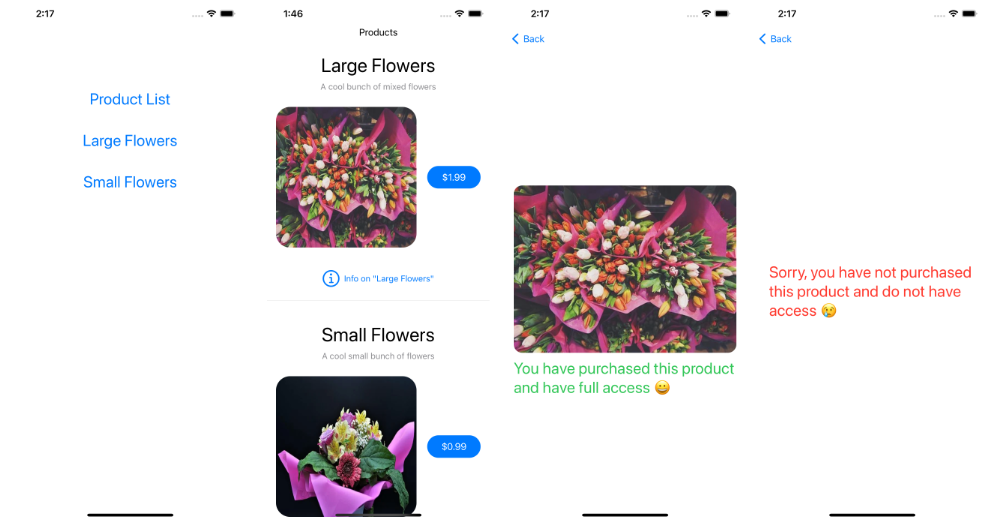
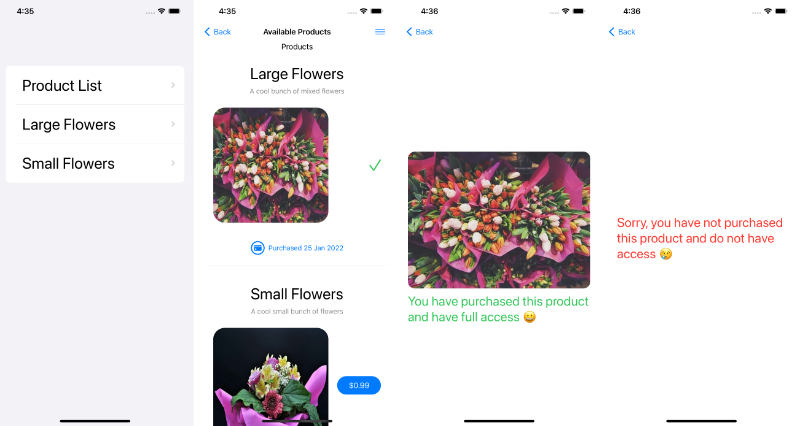
Updates to macOS frame size

diff --git a/Shared/ProductInfo.swift b/Shared/ProductInfo.swift
@@ -11,12 +11,19 @@ import StoreKit
 
 struct ProductInfo: View {
     @EnvironmentObject var storeHelper: StoreHelper
-    @Binding var productInfoProductId: ProductId
     @State private var product: Product?
+    @Binding var productInfoProductId: ProductId
+    @Binding var showProductInfoSheet: Bool
     
     var body: some View {
         VStack {
-            HStack { Spacer() }
+            HStack {
+                Spacer()
+                Image(systemName: "xmark.circle")
+                    .foregroundColor(.secondary)
+                    .padding(EdgeInsets(top: 10, leading: 10, bottom: 0, trailing: 10))
+            }
+            .onTapGesture { withAnimation { showProductInfoSheet = false }}
             ScrollView {
                 VStack {
                     if let p = product {

diff --git a/Shared/StoreHelperDemoApp.swift b/Shared/StoreHelperDemoApp.swift
@@ -12,17 +12,12 @@ import StoreHelper
 struct StoreHelperDemoApp: App {
     @StateObject var storeHelper = StoreHelper()
     
-    #if os(macOS)
-    let minScreenSize = CGSize(width: 600, height: 600)
-    let defaultScreenSize = CGSize(width: 700, height: 700)
-    #endif
-    
     var body: some Scene {
         WindowGroup {
             MainView().environmentObject(storeHelper)
                 #if os(macOS)
-                .frame(minWidth: minScreenSize.width, idealWidth: defaultScreenSize.width, minHeight: minScreenSize.height, idealHeight: defaultScreenSize.height)
-                .font(.title2)  // Default font
+                .frame(minWidth: 700, idealWidth: 700, minHeight: 700, idealHeight: 700)
+                .font(.title2)
                 #endif
         }
     }

diff --git a/Shared/ContentView.swift b/Shared/ContentView.swift
@@ -21,13 +21,12 @@ struct ContentView: View {
             .sheet(isPresented: $showProductInfoSheet) {
                 VStack {
                     // Pull in text and images that explain the particular product identified by `productId`
-                    ProductInfo(productInfoProductId: $productId)
+                    ProductInfo(productInfoProductId: $productId, showProductInfoSheet: $showProductInfoSheet)
                 }
                 #if os(macOS)
-                .frame(minWidth: 700, idealWidth: 700, maxWidth: 700, minHeight: 700, idealHeight: 800, maxHeight: 900)
+                .frame(minWidth: 500, idealWidth: 500, maxWidth: 500, minHeight: 500, idealHeight: 500, maxHeight: 500)
                 #endif
             }
         }
     }
 }
-

diff --git a/README.md b/README.md
@@ -7,10 +7,13 @@ Implementing and testing in-App purchases with `StoreKit2` and `StoreHelper` in 
 # Description
 ![](./readme-assets/StoreHelperDemo0c.png)
 
+- See [StoreHelper](https://github.com/russell-archer/StoreHelper) for an overview of the `StoreHelper` package
+- See [StoreHelper Guide](https://github.com/russell-archer/StoreHelper/blob/main/Documentation/guide.md) for in-depth discussion and tutorial on using `StoreHelper`, `StoreKit2` with **Xcode 13**, **iOS 15** and **macOS 12**
+
 This document describes how to create an example app that demonstrates how to support in-app purchases with **SwiftUI**, `StoreHelper`, `StoreKit2`, **Xcode 13**, **iOS 15** and **macOS 12**.
 
-- ### See [StoreHelper](https://github.com/russell-archer/StoreHelper) for full details of the `StoreHelper` package
-- ### See [In-App Purchases with Xcode 12 and iOS 14](https://github.com/russell-archer/IAPDemo) for details of working with StoreKit1 in **iOS 14**
+- See [StoreHelper](https://github.com/russell-archer/StoreHelper) for full details of the `StoreHelper` package
+- See [In-App Purchases with Xcode 12 and iOS 14](https://github.com/russell-archer/IAPDemo) for details of working with StoreKit1 in **iOS 14**
 
 ---
 
@@ -72,17 +75,12 @@ import StoreHelper
 struct StoreHelperDemoApp: App {
     @StateObject var storeHelper = StoreHelper()
     
-    #if os(macOS)
-    let minScreenSize = CGSize(width: 600, height: 600)
-    let defaultScreenSize = CGSize(width: 700, height: 700)
-    #endif
-    
     var body: some Scene {
         WindowGroup {
             MainView().environmentObject(storeHelper)
                 #if os(macOS)
-                .frame(minWidth: minScreenSize.width, idealWidth: defaultScreenSize.width, minHeight: minScreenSize.height, idealHeight: defaultScreenSize.height)
-                .font(.title2)  // Default font
+                .frame(minWidth: 700, idealWidth: 700, minHeight: 700, idealHeight: 700)
+                .font(.title2)
                 #endif
         }
     }
@@ -103,15 +101,16 @@ struct MainView: View {
     
     var body: some View {
         NavigationView {
-            VStack {
-                NavigationLink(destination: ContentView()) { Text("Product List").font(.title) }.padding()
-                NavigationLink(destination: ProductView(productId: largeFlowersId)) { Text("Large Flowers").font(.title) }.padding()
-                NavigationLink(destination: ProductView(productId: smallFlowersId)) { Text("Small Flowers").font(.title) }.padding()
-                Spacer()
+            List {
+                NavigationLink(destination: ContentView()) { Text("Product List").font(.largeTitle).padding()}
+                NavigationLink(destination: ProductView(productId: largeFlowersId)) { Text("Large Flowers").font(.largeTitle).padding()}
+                NavigationLink(destination: ProductView(productId: smallFlowersId)) { Text("Small Flowers").font(.largeTitle).padding()}
             }
         }
+        #if os(iOS)
         .navigationViewStyle(.stack)
         .navigationBarTitle(Text("StoreHelperDemo"), displayMode: .large)
+        #endif
     }
 }
 ```
@@ -174,10 +173,10 @@ struct ContentView: View {
             .sheet(isPresented: $showProductInfoSheet) {
                 VStack {
                     // Pull in text and images that explain the particular product identified by `productId`
-                    ProductInfo(productInfoProductId: $productId)
+                    ProductInfo(productInfoProductId: $productId, showProductInfoSheet: $showProductInfoSheet)
                 }
                 #if os(macOS)
-                .frame(minWidth: 700, idealWidth: 700, maxWidth: 700, minHeight: 700, idealHeight: 800, maxHeight: 900)
+                .frame(minWidth: 500, idealWidth: 500, maxWidth: 500, minHeight: 500, idealHeight: 500, maxHeight: 500)
                 #endif
             }
         }
@@ -199,12 +198,19 @@ import StoreKit
 
 struct ProductInfo: View {
     @EnvironmentObject var storeHelper: StoreHelper
-    @Binding var productInfoProductId: ProductId
     @State private var product: Product?
+    @Binding var productInfoProductId: ProductId
+    @Binding var showProductInfoSheet: Bool
     
     var body: some View {
         VStack {
-            HStack { Spacer() }
+            HStack {
+                Spacer()
+                Image(systemName: "xmark.circle")
+                    .foregroundColor(.secondary)
+                    .padding(EdgeInsets(top: 10, leading: 10, bottom: 0, trailing: 10))
+            }
+            .onTapGesture { withAnimation { showProductInfoSheet = false }}
             ScrollView {
                 VStack {
                     if let p = product {
@@ -276,6 +282,12 @@ struct ProductInfoDefault: View {
     - Try selecting "Large Flowers" from the main view. If you've purchased it you should see that you have access, otherwise you'll see a "no access" error 
 
 ![](./readme-assets/StoreHelperDemo108.png)
+
+- Now select the **macOS target** and run it on your Mac:
+
+![](./readme-assets/StoreHelperDemo108b.png)
+
+![](./readme-assets/StoreHelperDemo108c.png)
 
 ---
 
